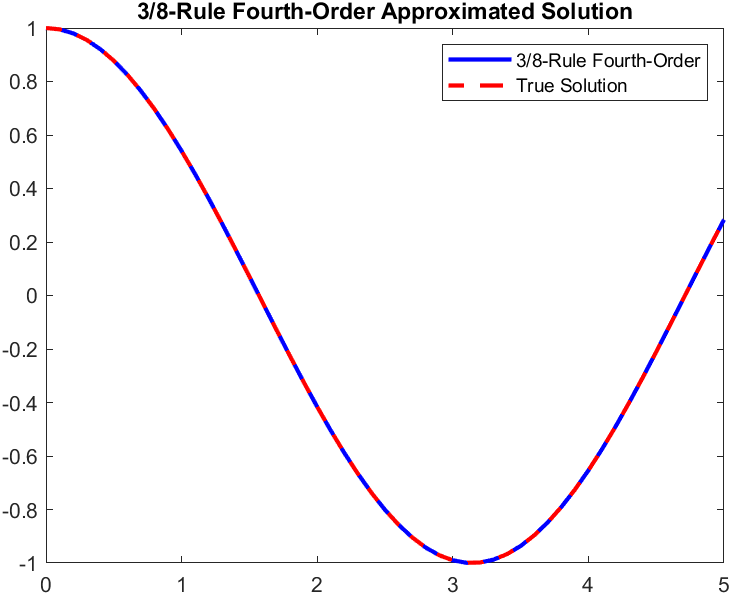
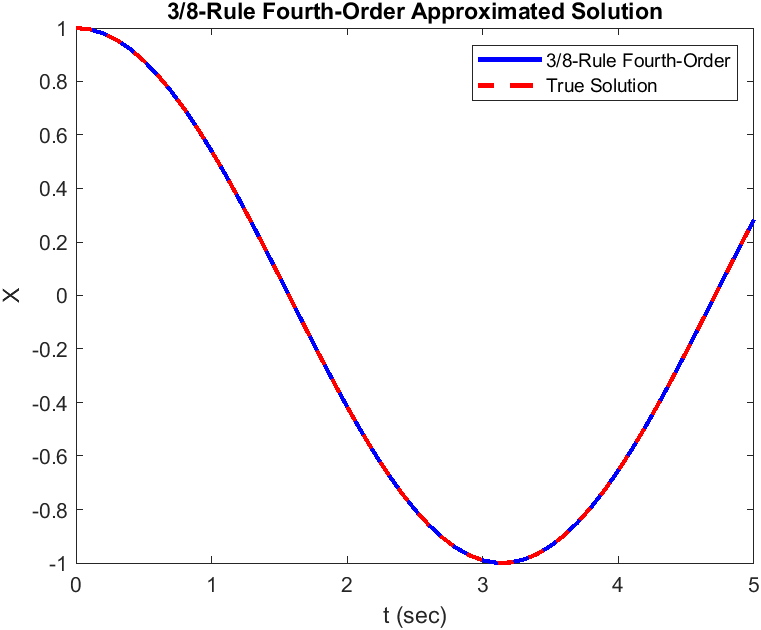
add labels to plots

diff --git a/explicit_rk.m b/explicit_rk.m
@@ -48,13 +48,13 @@ hold off
 figure;
 hold on;
 axis([0,30,-2,2])
-plot(t_range,E_list,"k");
+plot(t_range,E_list,"k", "LineWidth", 2);
 xlabel("time (s)")
 ylabel("Mechanical Energy (Joules)")
 yyaxis right
 ylabel("Angular Momentum (kgm^2/s)")
 ylim([-2,2])
-plot(t_range,H_list);
+plot(t_range,H_list, "LineWidth", 2);
 title("Conservation of Mechanical Energy and Angular Momentum")
 hold off
 
@@ -80,6 +80,8 @@ figure;
 plot(t_list_heun,X_list_heun, 'b', 'LineWidth', 2);
 hold on;
 plot(t_list_heun,solution01(t_list_heun), '--r', 'LineWidth', 2)
+xlabel("t (sec)")
+ylabel("X")
 title("Heun's Method Approximated Solution")
 legend("Heun's Method", "True Solution")
 
@@ -163,6 +165,8 @@ plot(t_list_ralston,X_list_ralston, 'b', 'LineWidth', 2);
 hold on;
 plot(t_list_ralston,solution01(t_list_ralston), '--r', 'LineWidth', 2)
 title("Ralston's Third-Order Method Approximated Solution")
+xlabel("t (sec)")
+ylabel("X")
 legend("Ralston's Third-Order Method", "True Solution")
 
 % LOCAL
@@ -244,6 +248,8 @@ plot(t_list_eighth,X_list_eighth, 'b', 'LineWidth', 2);
 hold on;
 plot(t_list_eighth,solution01(t_list_eighth), '--r', 'LineWidth', 2)
 title("3/8-Rule Fourth-Order Approximated Solution")
+xlabel("t (sec)")
+ylabel("X")
 legend("3/8-Rule Fourth-Order", "True Solution")
 
 % LOCAL
